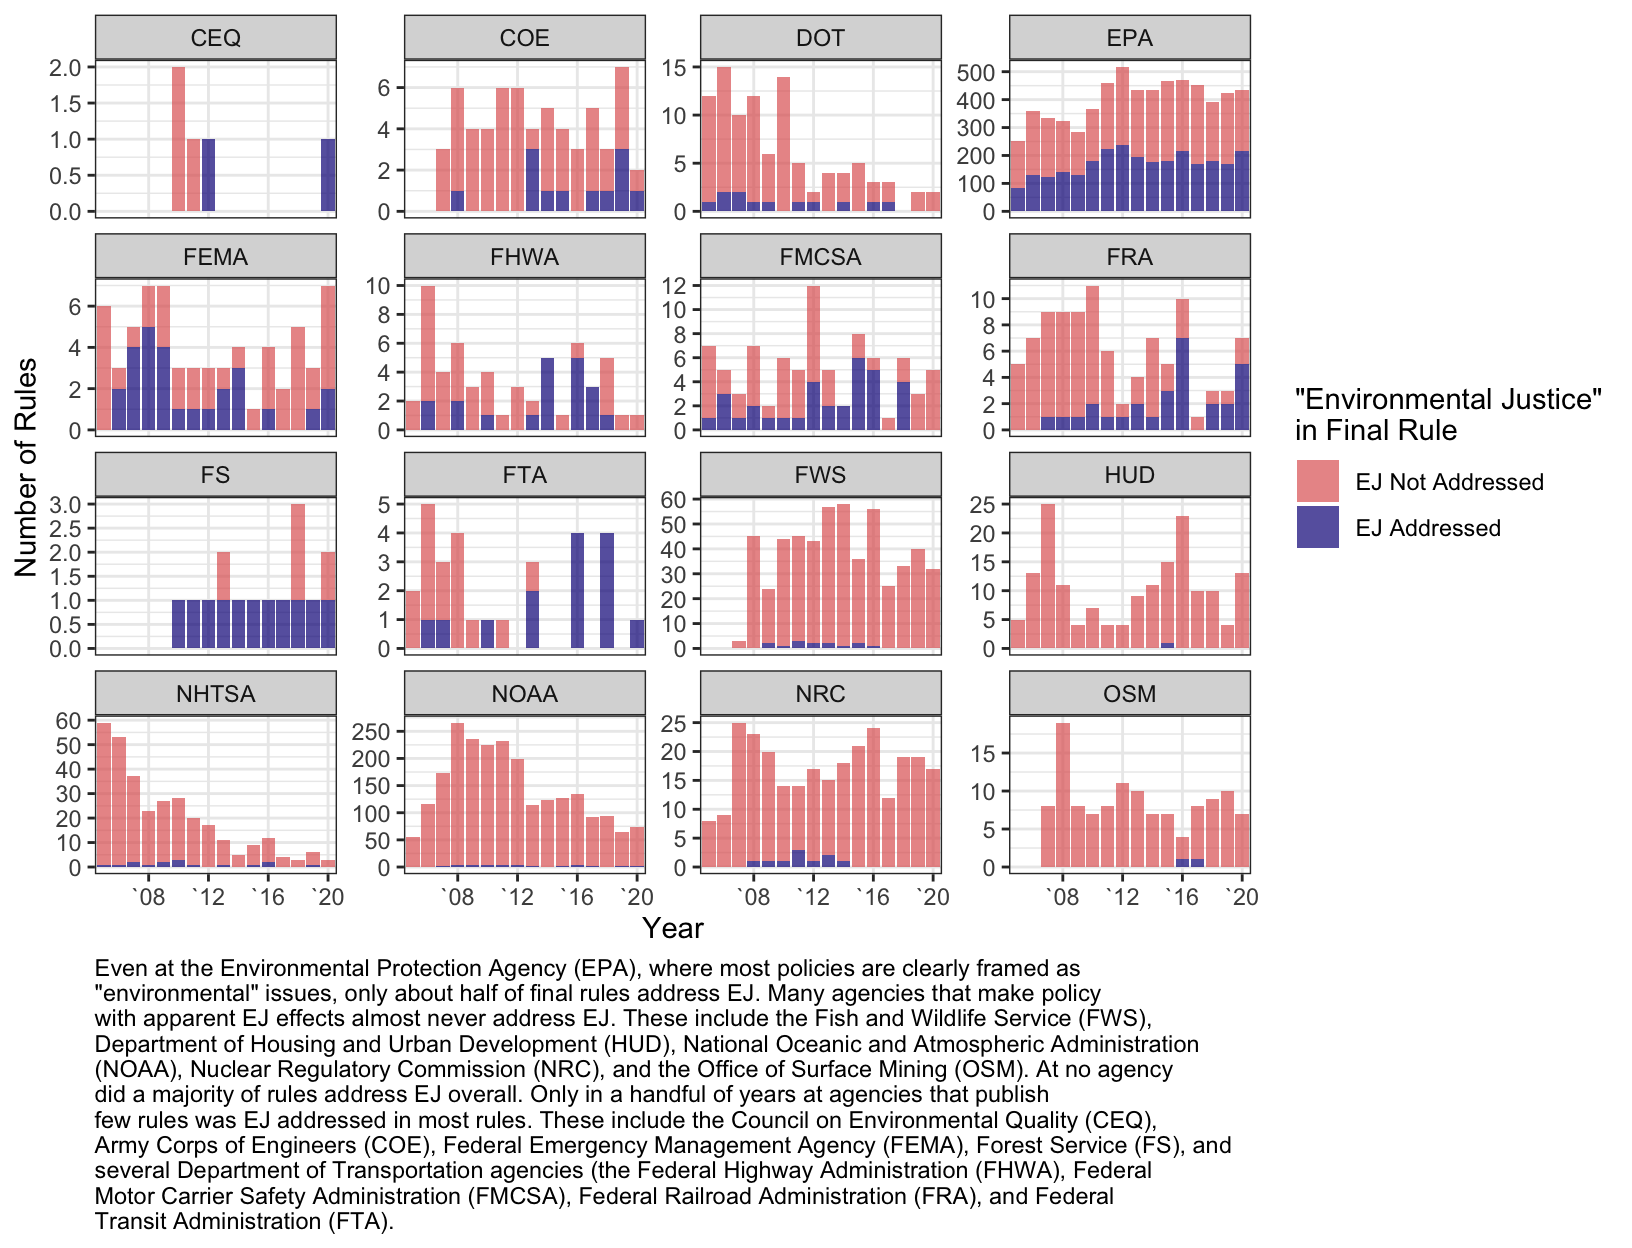
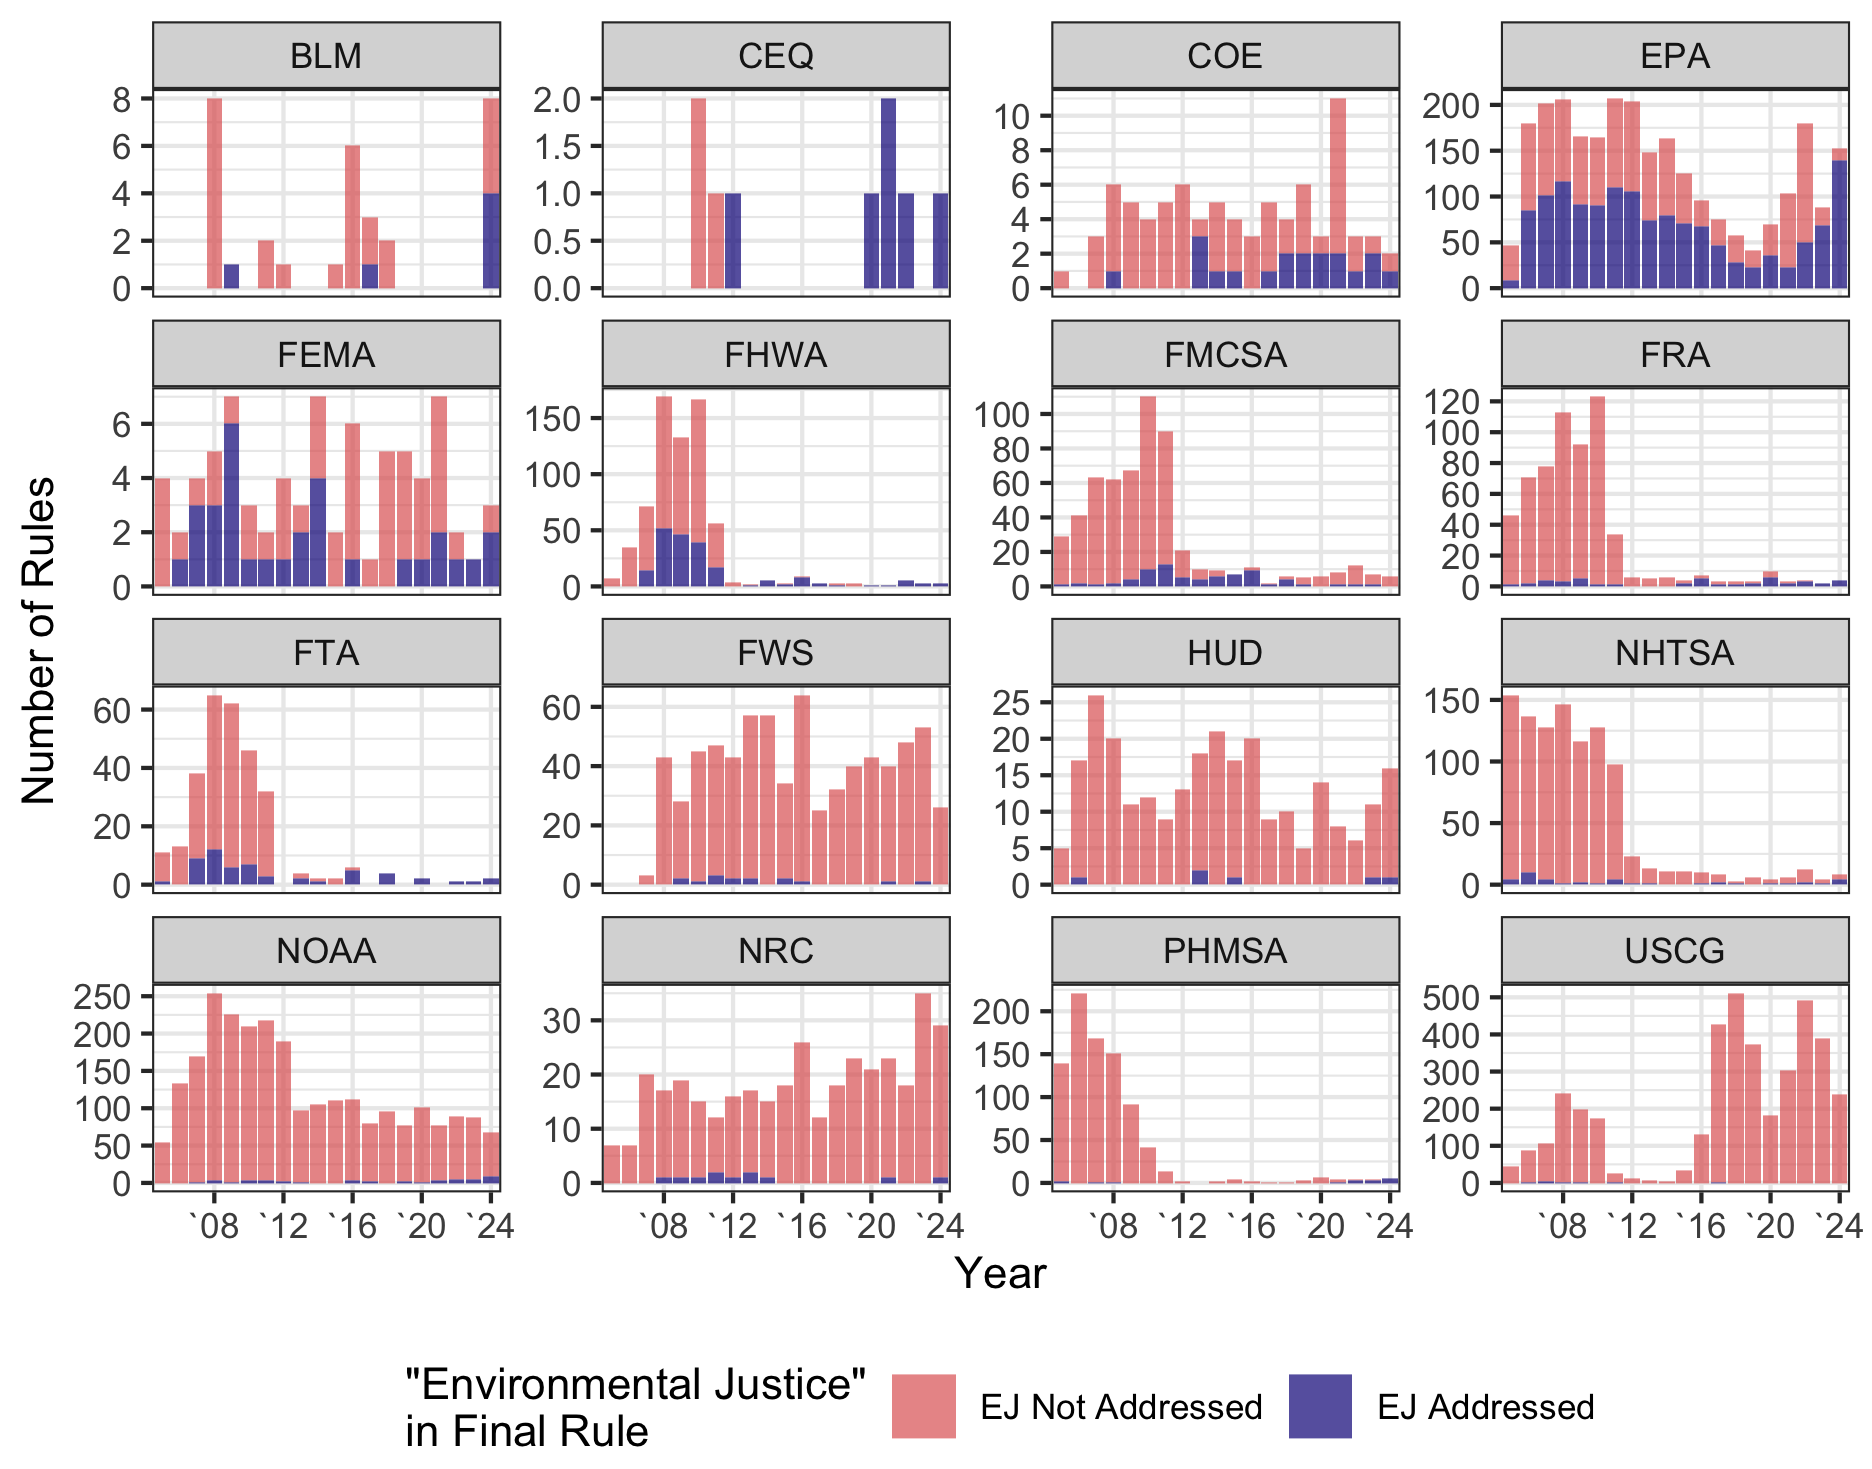
new data

diff --git a/05-ej/ej-abstract.tex b/05-ej/ej-abstract.tex
@@ -1,1 +1,1 @@
-Political movements advance new rights and social values by shaping policy agendas and reframing policy debates. Likewise, lack of movement pressure is a leading explanation for the failure of policy efforts. To examine how movements affect policymaking, I assess the aggregate impact of environmental justice advocacy on federal policy from 1993-2020 using a new dataset of 13,179 draft and final rule pairs from 40 U.S. federal agencies and 42 million public comments on these draft policies, I find that when public comments and petition campaigns raise distributive justice concerns, these concerns are more likely to be addressed in the final policy document. Supporting theories about how institutions shape receptivity to issue frames, I find that agencies with institutional processes for addressing environmental justice concerns are more responsive to movement pressure. The scale of mobilization also matters. When more groups and individuals raise environmental justice concerns, policy texts are more likely to change. However, within the movement, some organizations are much more successful than others. Furthermore, baseline rates of addressing environmental justice are so low that, even when groups raise environmental justice concerns, most policy documents pay no explicit attention to them---a pattern that persists across agencies and throughout the G.W. Bush, Obama, and Trump administrations. These findings suggest that who makes distributive justice claims, their alignment with institutional cultures, and levels of public pressure all systematically affect policymaking.
+Political movements advance new rights and social values by shaping policy agendas and reframing policy debates. Likewise, lack of movement pressure is a leading explanation for the failure of policy efforts. To examine how movements affect policymaking, I assess the aggregate impact of environmental justice advocacy on federal policy from 1993-2024 using a new dataset of 13,179 draft and final rule pairs from 40 U.S. federal agencies and 42 million public comments on these draft policies, I find that when public comments and petition campaigns raise distributive justice concerns, these concerns are more likely to be addressed in the final policy document. Supporting theories about how institutions shape receptivity to issue frames, I find that agencies with institutional processes for addressing environmental justice concerns are more responsive to movement pressure. The scale of mobilization also matters. When more groups and individuals raise environmental justice concerns, policy texts are more likely to change. However, within the movement, some organizations are much more successful than others. Furthermore, baseline rates of addressing environmental justice are so low that, even when groups raise environmental justice concerns, most policy documents pay no explicit attention to them---a pattern that persists across agencies and throughout the G.W. Bush, Obama, and Trump administrations. These findings suggest that who makes distributive justice claims, their alignment with institutional cultures, and levels of public pressure all systematically affect policymaking.
